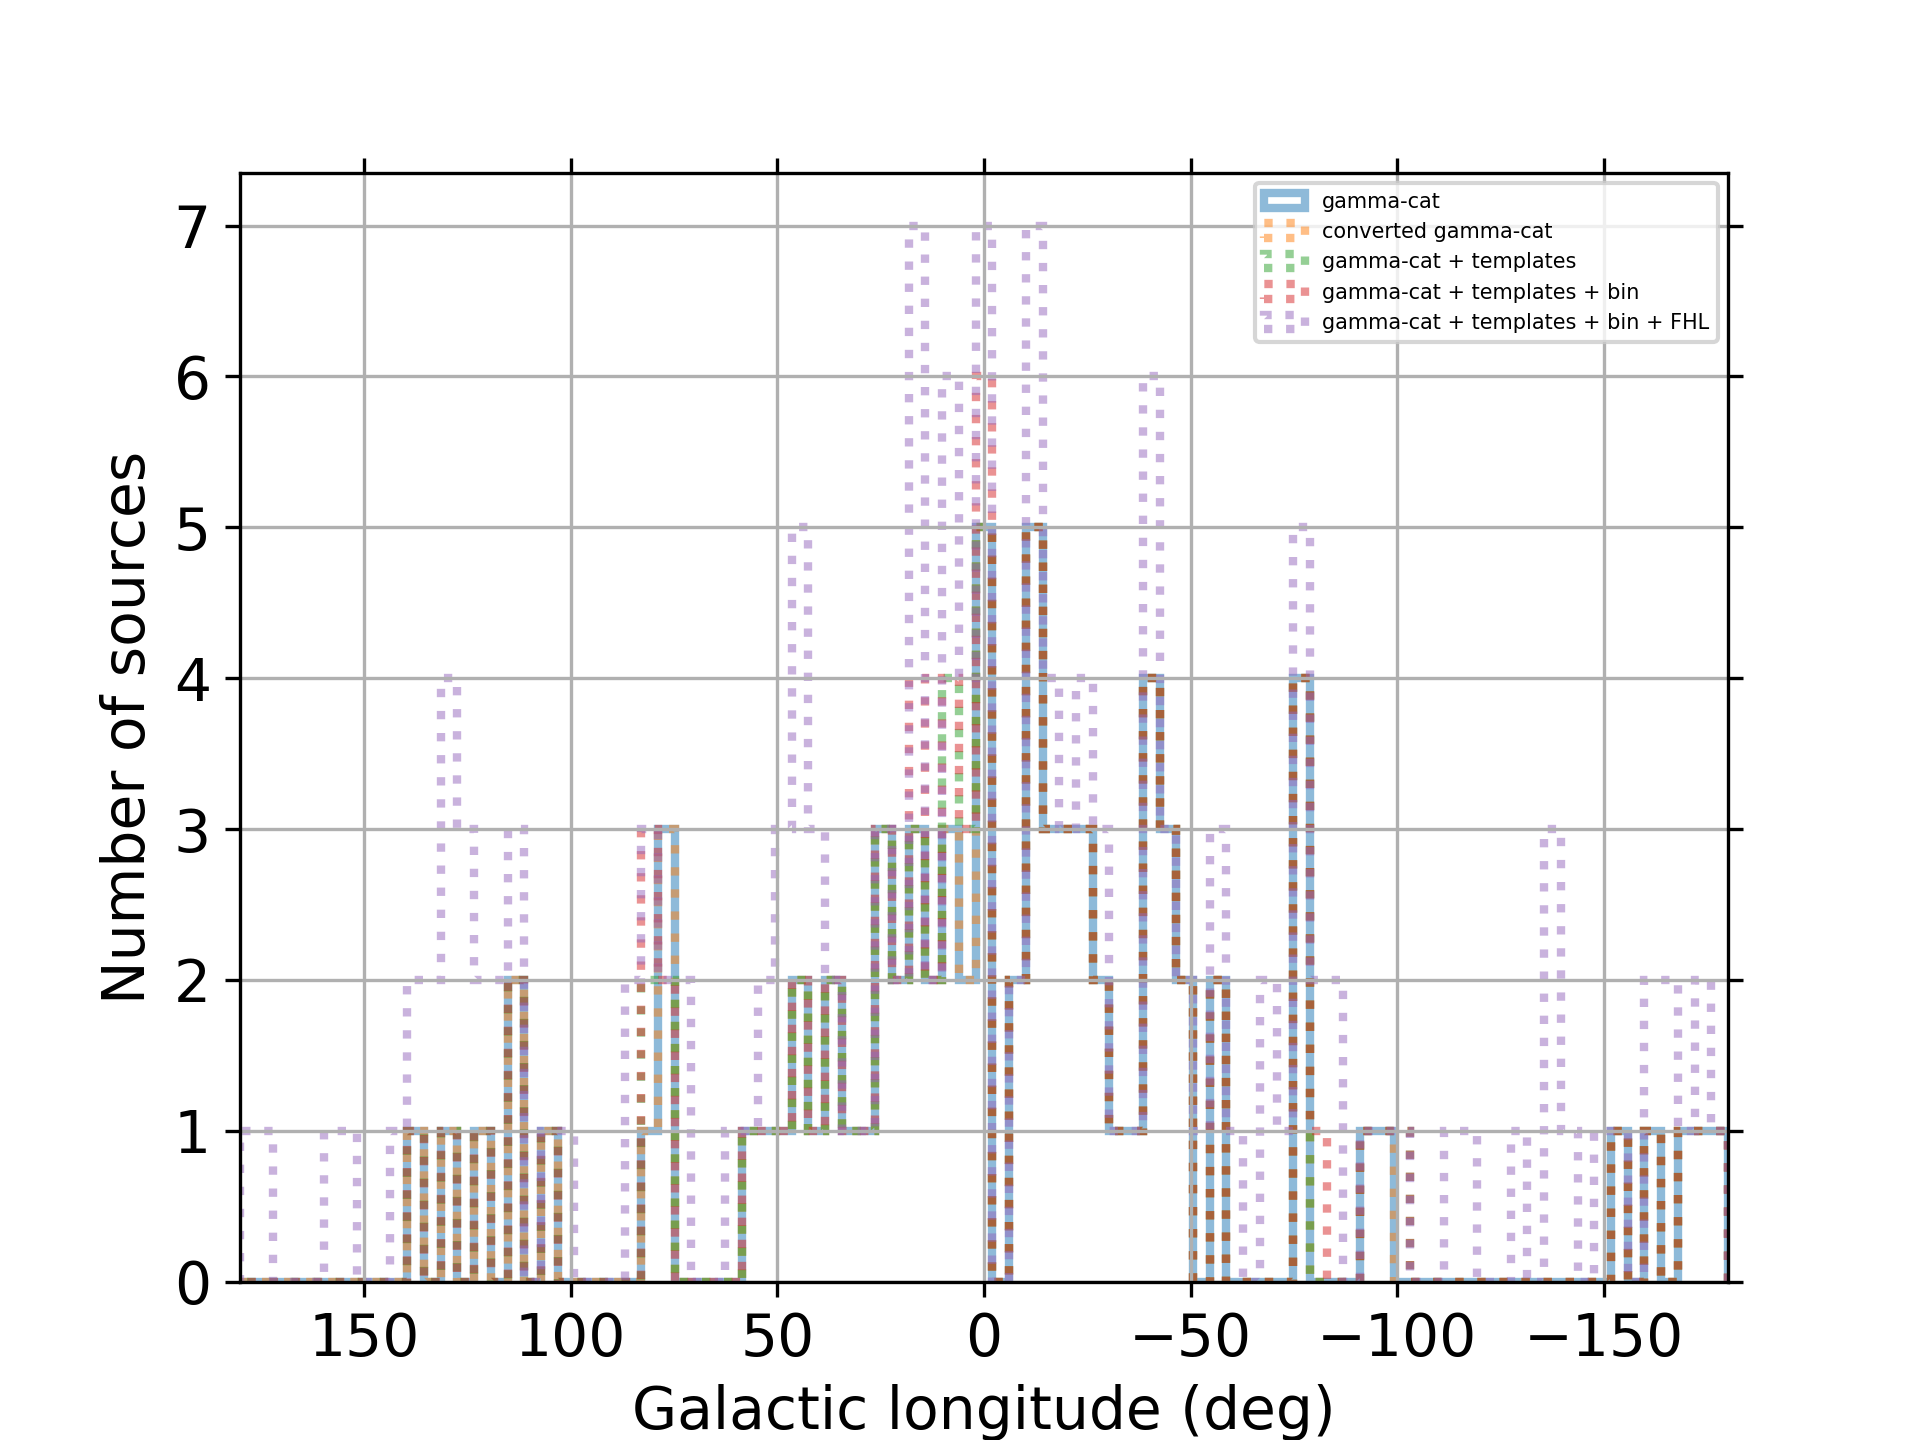
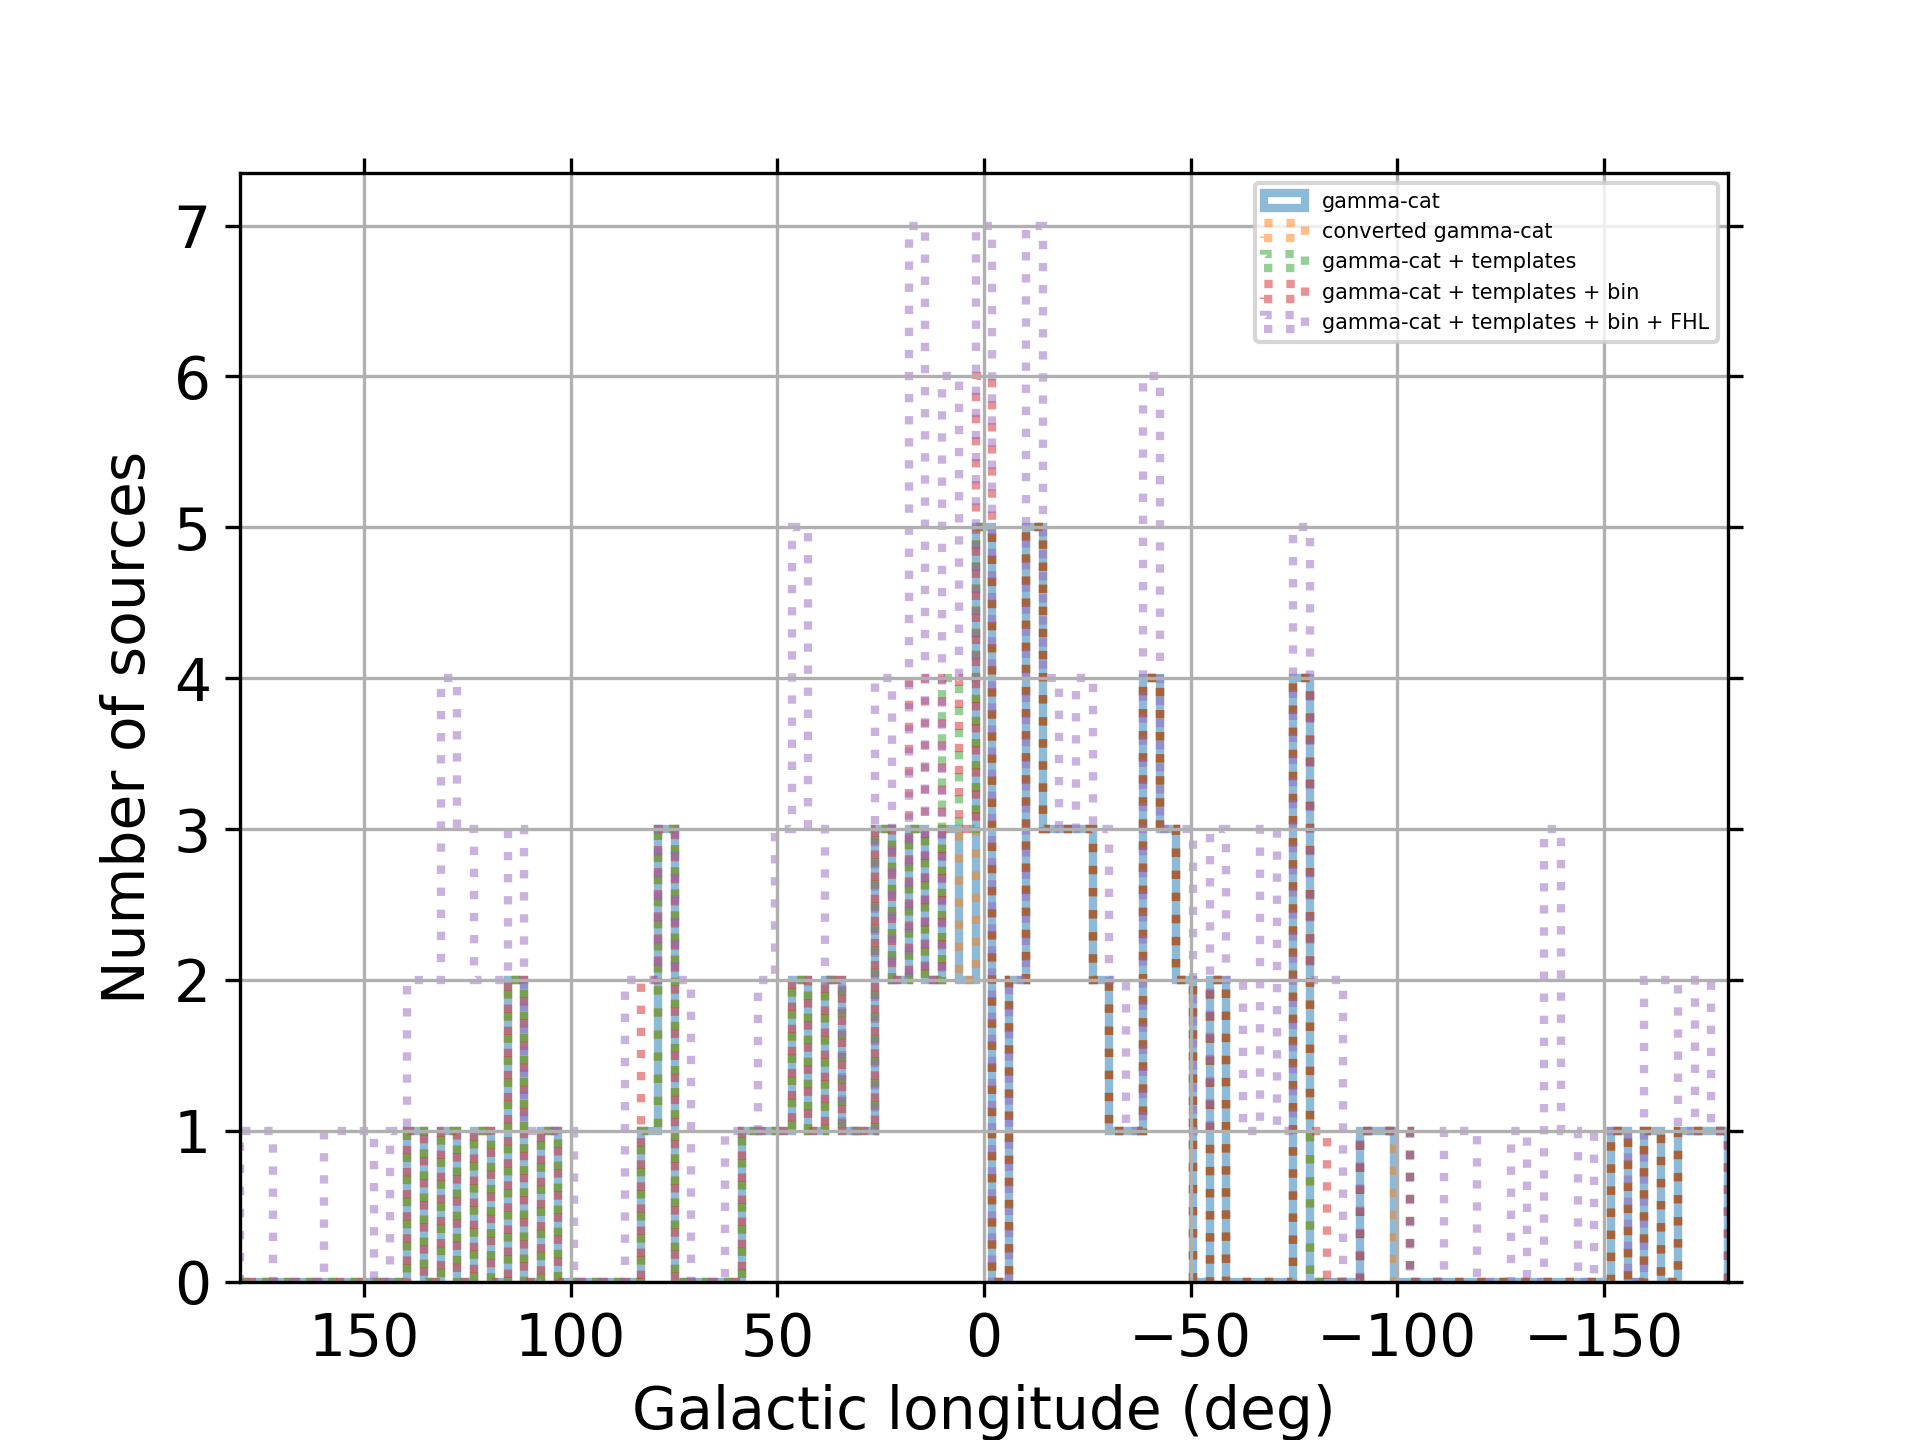
implemented extended FHL sources

diff --git a/skymodel/scripts/add_fhl.py b/skymodel/scripts/add_fhl.py
@@ -5,9 +5,10 @@ from utils import *
 
 # retrieve Fermi high-energy catalog data
 fhl = fits.getdata('../known-sources/external-input/gll_psch_v13.fit', 1)
+ext_fhl = fits.getdata('../known-sources/external-input/gll_psch_v13.fit', 2)
 
 # filter sources wth known TeV association, they are included elsewhere
-# this avoids issues due to model building choices
+# this avoids issues due to model building choices (i.e., numerical precision, source for position etc.)
 fhl = fhl[fhl['ASSOC_TEV'] == ' ']
 
 
@@ -39,13 +40,13 @@ def append_fhl(models, bmax, dist_sigma=3., sig50_thresh=3., eph_thresh=100.):
     for fsource in fsources:
         # assume source is new
         new = 1
+        # fermi source position as gammalib.GSkyDir
+        fdir = gammalib.GSkyDir()
+        ra = np.double(fsource['RAJ2000'])
+        dec = np.double(fsource['DEJ2000'])
+        fdir.radec_deg(ra, dec)
         if fsource['Extended_Source_Name'] == '':
             # case of sources pointlike for Fermi
-            # fermi source position as gammalib.GSkyDir
-            fdir = gammalib.GSkyDir()
-            ra = np.double(fsource['RAJ2000'])
-            dec = np.double(fsource['DEJ2000'])
-            fdir.radec_deg(ra, dec)
             # loop over gammalib container and determine closest neighbor
             dist_min = 1000.
             for source in models:
@@ -56,7 +57,7 @@ def append_fhl(models, bmax, dist_sigma=3., sig50_thresh=3., eph_thresh=100.):
                 # closeby source foud in container, source will not be added
                 new = 0
             else:
-                # sources will be added to container, set spatial model
+                # source will be added to container, set spatial model
                 src_dir = gammalib.GSkyDir()
                 ra = np.double(fsource['RAJ2000'])
                 dec = np.double(fsource['DEJ2000'])
@@ -64,8 +65,63 @@ def append_fhl(models, bmax, dist_sigma=3., sig50_thresh=3., eph_thresh=100.):
                 spatial = gammalib.GModelSpatialPointSource(src_dir)
                 newpt += 1
         else:
-            # for the moment ignore extended sources
-            new = 0
+            # retrieve Fermi extended source radius
+            ext_fsource = ext_fhl[ext_fhl['Source_Name'] == fsource['Extended_Source_Name']][0]
+            fradius = np.double(ext_fsource['Model_SemiMajor'])
+            dist_corr = 10.
+            for source in models:
+                dir = get_model_dir(source)
+                dist = fdir.dist_deg(dir)
+                if source.spatial().type() == 'PointSource':
+                    radius = 0.
+                elif source.spatial().type() == 'RadialGaussian':
+                    radius = 2 * source['Sigma'].value()
+                elif source.spatial().type() == 'EllipticalGaussian':
+                    radius = 2 * source['MajorRadius'].value()
+                elif source.spatial().type() == 'RadialShell':
+                    radius = source['Radius'].value() + source['Width'].value()
+                elif source.spatial().type() == 'RadialDisk':
+                    radius = source['Radius'].value()
+                elif source.spatial().type() == 'DiffuseMap':
+                    radius = source.spatial().region().radius()
+                else:
+                    print('source {} has spatial model type {} which is not implemented'.format(source.name(),source.spatial().type()))
+                # use as radius the max between Fermi and model
+                radius = np.maximum(fradius,radius)
+                # subtract from distance the max radius
+                dist -= radius
+                dist_corr = np.minimum(dist,dist_corr)
+            if dist_corr < 0.:
+                # overlapping source foud in container, source will not be added
+                new = 0
+            else:
+                # source will be added to container, set spatial model
+                fradius2 = np.double(ext_fsource['Model_SemiMinor'])
+                fpangle = np.double(ext_fsource['Model_PosAng'])
+                if ext_fsource['Model_Form'] == 'Disk':
+                    if fpangle == 0.:
+                        spatial = gammalib.GModelSpatialRadialDisk(fdir,fradius)
+                    else:
+                        spatial = gammalib.GModelSpatialEllipticalDisk(fdir, fradius, fradius2, fpangle)
+                elif ext_fsource['Model_Form'] == '2D Gaussian':
+                    if fpangle == 0.:
+                        spatial = gammalib.GModelSpatialRadialGauss(fdir,fradius)
+                    else:
+                        spatial = gammalib.GModelSpatialEllipticalGauss(fdir, fradius, fradius2, fpangle)
+                elif ext_fsource['Model_Form'] == '2D Gaussian':
+                    if fpangle == 0.:
+                        spatial = gammalib.GModelSpatialRadialShell(fdir,fradius, fradius2)
+                    else:
+                        print('{} modeled by elliptical ring, which is not implemented, skip'.format(fsource['Source_Name']))
+                        new = 0.
+                elif ext_fsource['Model_Form'] == 'Map':
+                    print('{} modeled by spatial template, which is not implemented, skip'.format(fsource['Source_Name']))
+                    new = 0
+                else:
+                    print('{} modeled by model type {}, which is not implemented, skip'.format(fsource['Source_Name'],ext_fsource['Model_Form']))
+                    new = 0
+                if new == 1:
+                    newext +=1
         if new == 1:
             # spectral model
             eref = gammalib.GEnergy(np.double(fsource['Pivot_Energy']), 'GeV')

diff --git a/skymodel/scripts/make_model.py b/skymodel/scripts/make_model.py
@@ -85,6 +85,11 @@ for source in gammacat:
             # Gaussian morphology
             sigma = np.double(source['morph_sigma'])
             if np.isnan(source['morph_sigma2']):
+                ##############################################
+                # temporary fix for missing sigma of Westerlund 1
+                # to be removed once Westerlund 1 dedicated model is added!!!
+                if source['common_name'] == 'Westerlund 1':
+                    sigma = 1.1
                 # symmetric Gaussian
                 spatial = gammalib.GModelSpatialRadialGauss(src_dir, sigma)
             else:

diff --git a/skymodel/scripts/utils.py b/skymodel/scripts/utils.py
@@ -37,9 +37,8 @@ def get_model_dir(model):
     :return: src_dir: ~gammalib.GSkyDir
     """
     if model.spatial().type() == 'DiffuseMap':
-        # # retrieve source direction from map, use mid pixel as approximation
-        dmap = model.spatial().map()
-        src_dir = dmap.inx2dir(int(dmap.npix() / 2))
+        # retrieve direction from map
+        src_dir = model.spatial().region().centre()
     else:
         # retrieve direction from analytical model
         src_dir = model.spatial().dir()
